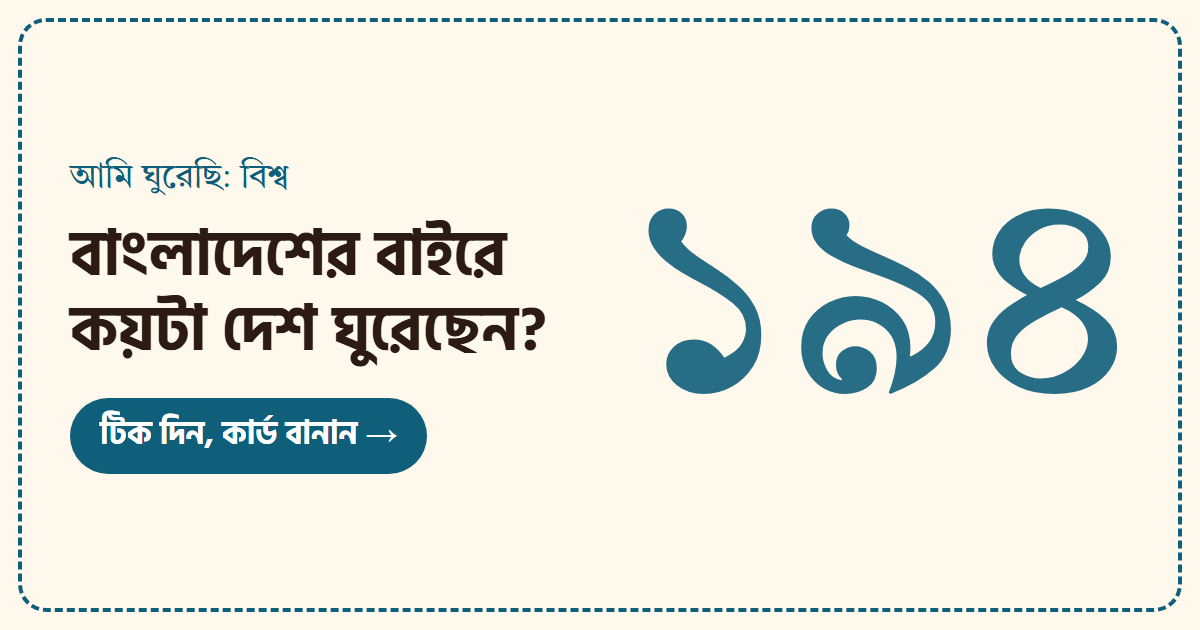
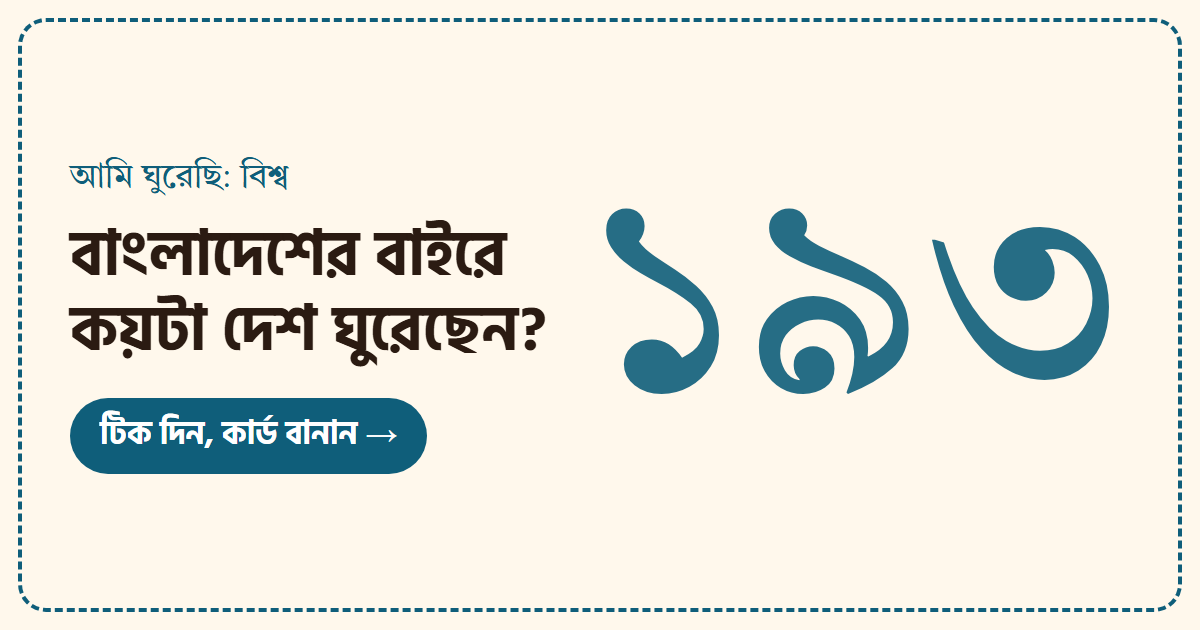
update

Changed region(s): [[0.4933, 0.3317, 0.9558, 0.6333]]

diff --git a/src/collections/world.ts b/src/collections/world.ts
@@ -1,5 +1,11 @@
 import countryData from '../data/countries.json'
-import type { Collection } from './types'
+import type { Collection, Item } from './types'
+
+// Hidden from the list, map and cards. The slot stays in the share-link encoding so links made
+// before the change still decode correctly (see lib/slots.ts).
+const RETIRED = new Set(['IL'])
+
+const slots: Item[] = countryData.countries.map((c) => ({ id: c.id, bn: c.bn, en: c.en, icon: 'globe' as const, group: c.region }))
 
 export const world: Collection = {
   id: 'world',
@@ -7,7 +13,8 @@ export const world: Collection = {
   kind: 'world-map',
   name: 'আমি ঘুরেছি: বিশ্ব',
   short: 'বিশ্ব ভ্রমণ',
-  items: countryData.countries.map((c) => ({ id: c.id, bn: c.bn, en: c.en, icon: 'globe' as const, group: c.region })),
+  items: slots.filter((s) => !RETIRED.has(s.id)),
+  slots,
   groups: countryData.regions,
   levels: ['ট্রানজিট', 'ঘুরেছি', 'থেকেছি'],
   unitLine: 'দেশ ঘুরেছি',
@@ -28,7 +35,7 @@ export const world: Collection = {
   seo: {
     title: 'কয়টা দেশ ঘুরেছেন? নিজের ট্রাভেল ম্যাপ বানান | আমি ঘুরেছি',
     description:
-      'বিশ্বের ১৯৪টি দেশের মধ্যে কয়টা ঘুরেছেন? ট্রানজিট, বেড়ানো বা থাকা — টিক দিয়ে নিজের ওয়ার্ল্ড ট্রাভেল ম্যাপ বানিয়ে ফেসবুকে শেয়ার করুন।',
+      'বিশ্বের ১৯৩টি দেশের মধ্যে কয়টা ঘুরেছেন? ট্রানজিট, বেড়ানো বা থাকা — টিক দিয়ে নিজের ওয়ার্ল্ড ট্রাভেল ম্যাপ বানিয়ে ফেসবুকে শেয়ার করুন।',
     keywords: ['কয়টা দেশ ঘুরেছেন', 'travel map maker', 'countries visited map', 'বিশ্ব ভ্রমণ ম্যাপ'],
   },
 }

diff --git a/src/lib/state.ts b/src/lib/state.ts
@@ -1,8 +1,9 @@
 import { useCallback, useEffect, useMemo, useState, useSyncExternalStore } from 'react'
 import type { Collection } from '../collections/types'
 import { SITE_URL } from './config'
-import { decodeLevels, encodeLevels, type Level } from './encode'
+import type { Level } from './encode'
 import { tally } from './score'
+import { decodeFor, encodeFor } from './slots'
 import { load, save } from './storage'
 import { trackOnce } from './track'
 
@@ -20,11 +21,11 @@ export function shareUrl(c: Collection, encoded: string, name: string): string {
 export function useLevels(c: Collection) {
   const key = `ak:lv:${c.id}`
   const n = c.items.length
-  const [levels, setLevels] = useState<Level[]>(() => decodeLevels(load<string>(key, ''), n))
+  const [levels, setLevels] = useState<Level[]>(() => decodeFor(c, load<string>(key, '')))
 
   useEffect(() => {
-    save(key, encodeLevels(levels))
-  }, [key, levels])
+    save(key, encodeFor(c, levels))
+  }, [c, key, levels])
 
   const setLevel = useCallback((i: number, l: Level) => {
     trackOnce(`first_tick`, { collection: c.id })
@@ -51,7 +52,7 @@ export function useLevels(c: Collection) {
   }), [c.id])
 
   const reset = useCallback(() => setLevels(new Array<Level>(n).fill(0)), [n])
-  const encoded = useMemo(() => encodeLevels(levels), [levels])
+  const encoded = useMemo(() => encodeFor(c, levels), [c, levels])
   const t = useMemo(() => tally(levels), [levels])
 
   return { levels, tally: t, encoded, setLevel, toggle, cycle, reset }
@@ -67,7 +68,7 @@ export function readFriend(c: Collection, search: string): Friend | null {
   const q = new URLSearchParams(search)
   const m = q.get('m')
   if (!m) return null
-  const levels = decodeLevels(m, c.items.length)
+  const levels = decodeFor(c, m)
   if (!levels.some(Boolean)) return null
   return { name: (q.get('n') ?? '').slice(0, 30) || 'বন্ধু', levels }
 }

diff --git a/tests/slots.test.ts b/tests/slots.test.ts
@@ -1,0 +1,32 @@
+import { describe, expect, it } from 'vitest'
+import { world } from '../src/collections'
+import { encodeLevels, type Level } from '../src/lib/encode'
+import { decodeFor, encodeFor } from '../src/lib/slots'
+
+const slotIds = world.slots!.map((s) => s.id)
+const itemIds = world.items.map((s) => s.id)
+
+describe('retired slots (world: Israel)', () => {
+  it('old links made before the retirement keep every other country', () => {
+    // A link from before: India, Israel and Turkey ticked, in the original 194-slot order.
+    const old = new Array<Level>(194).fill(0)
+    old[slotIds.indexOf('IN')] = 2
+    old[slotIds.indexOf('IL')] = 1
+    old[slotIds.indexOf('TR')] = 3
+    const decoded = decodeFor(world, encodeLevels(old))
+    expect(decoded).toHaveLength(193)
+    expect(decoded[itemIds.indexOf('IN')]).toBe(2)
+    expect(decoded[itemIds.indexOf('TR')]).toBe(3)
+    expect(decoded.filter(Boolean)).toHaveLength(2) // Israel dropped, nothing shifted
+  })
+
+  it('round-trips visible levels and keeps the retired slot empty', () => {
+    const lv = itemIds.map((_, i) => (i % 4) as Level)
+    const s = encodeFor(world, lv)
+    expect(s).toHaveLength(66) // still 194 slots → same link format as before
+    expect(decodeFor(world, s)).toEqual(lv)
+    const raw = new Array<Level>(194).fill(0)
+    // the retired slot is always written as 0
+    expect(decodeFor({ ...world, slots: undefined, items: world.slots! }, s)[slotIds.indexOf('IL')]).toBe(raw[0])
+  })
+})

diff --git a/src/lib/slots.ts b/src/lib/slots.ts
@@ -1,0 +1,34 @@
+// Share links and saved selections encode one level per *slot*, in a frozen order.
+// A collection can retire an item (hide it everywhere) while keeping its slot, so existing links
+// still decode correctly. These helpers convert between visible-item levels and slot levels.
+import type { Collection } from '../collections/types'
+import { decodeLevels, encodeLevels, type Level } from './encode'
+
+function slotIndexes(c: Collection): number[] | null {
+  if (!c.slots) return null
+  const pos = new Map(c.slots.map((s, i) => [s.id, i]))
+  return c.items.map((it) => pos.get(it.id)!)
+}
+
+const cache = new WeakMap<Collection, number[] | null>()
+function indexes(c: Collection): number[] | null {
+  if (!cache.has(c)) cache.set(c, slotIndexes(c))
+  return cache.get(c)!
+}
+
+/** Encode visible-item levels into the frozen slot format (retired slots stay 0). */
+export function encodeFor(c: Collection, levels: readonly Level[]): string {
+  const idx = indexes(c)
+  if (!idx) return encodeLevels(levels)
+  const slots = new Array<Level>(c.slots!.length).fill(0)
+  idx.forEach((s, i) => (slots[s] = levels[i] ?? 0))
+  return encodeLevels(slots)
+}
+
+/** Decode a slot-format string into levels for the visible items only. */
+export function decodeFor(c: Collection, s: string | null | undefined): Level[] {
+  const idx = indexes(c)
+  if (!idx) return decodeLevels(s, c.items.length)
+  const slots = decodeLevels(s, c.slots!.length)
+  return idx.map((i) => slots[i])
+}

diff --git a/src/App.tsx b/src/App.tsx
@@ -1,6 +1,7 @@
 import { useEffect } from 'react'
 import { Route, Router, Switch, useLocation, type BaseLocationHook } from 'wouter'
 import { useBrowserLocation } from 'wouter/use-browser-location'
+import { AUTHOR } from './lib/config'
 import { COLLECTIONS } from './collections'
 import { Nav } from './components/Nav'
 import { CollectionPage } from './pages/CollectionPage'
@@ -46,6 +47,12 @@ function Footer() {
     <footer className="mx-auto max-w-5xl px-4 pt-6 pb-28 text-center text-xs leading-relaxed text-[var(--muted)]">
       <p>তৈরি বাংলাদেশের খাবার আর ভ্রমণপ্রেমীদের জন্য। আপনার টিক ও ছবি শুধু আপনার ফোনেই থাকে।</p>
       <p className="mt-1">মানচিত্র: geoBoundaries (BBS / OCHA ROAP, CC BY 3.0 IGO), Natural Earth।</p>
+      <p className="mt-1">
+        তৈরি করেছেন {AUTHOR.name} ·{' '}
+        <a href={`mailto:${AUTHOR.email}`} className="underline">
+          {AUTHOR.email}
+        </a>
+      </p>
     </footer>
   )
 }

diff --git a/src/components/WorldMap.tsx b/src/components/WorldMap.tsx
@@ -49,9 +49,15 @@ export const WorldMap = memo(function WorldMap({ data, items, theme, levels, com
     return mine && theirs ? COMPARE_COLORS.both : mine ? COMPARE_COLORS.me : theirs ? COMPARE_COLORS.them : COMPARE_COLORS.none
   }
   const shapes = items.map((it, i) => ({ it, i, g: data.countries[it.id] }))
+  const listed = new Set(items.map((it) => it.id))
+  // Countries in the map data but not in the list (retired items) are drawn as plain, non-selectable land.
+  const unlisted = Object.entries(data.countries).filter(([id, g]) => g.d && !listed.has(id))
   return (
     <svg viewBox={`0 0 ${data.w} ${data.h}`} className={className} role="img" aria-label="বিশ্ব মানচিত্র">
       <path d={data.other} fill={theme.empty} stroke="#FFFDF7" strokeWidth={0.5 * strokeScale} />
+      {unlisted.map(([id, g]) => (
+        <path key={id} d={g.d} fill={theme.empty} stroke="#FFFDF7" strokeWidth={0.5 * strokeScale} />
+      ))}
       {shapes.map(({ it, i, g }) =>
         g?.d ? (
           <path

diff --git a/scripts/prerender.ts b/scripts/prerender.ts
@@ -11,7 +11,7 @@ if (!process.env.VITE_SITE_URL) {
   throw new Error('Set VITE_SITE_URL (e.g. https://yourdomain.com) in .env — canonical URLs, OG tags and the sitemap depend on it.')
 }
 
-const { SITE_URL } = await import('../src/lib/config.ts')
+const { SITE_URL, AUTHOR } = await import('../src/lib/config.ts')
 const { COLLECTIONS } = await import('../src/collections/index.ts')
 const { FOODS_BY_DISTRICT } = await import('../src/collections/food64.ts')
 const { DISTRICTS, DIVISIONS, DISTRICT_BY_ID, DIVISION_BY_ID } = await import('../src/data/districts.ts')
@@ -121,6 +121,7 @@ for (const c of COLLECTIONS) {
         name: c.name,
         url: abs(p),
         applicationCategory: 'EntertainmentApplication',
+        author: { '@type': 'Person', name: AUTHOR.name, email: AUTHOR.email },
         operatingSystem: 'Any',
         inLanguage: 'bn',
         offers: { '@type': 'Offer', price: '0', priceCurrency: 'BDT' },

diff --git a/scripts/make-og.ts b/scripts/make-og.ts
@@ -36,7 +36,7 @@ function page(c: (typeof COLLECTIONS)[number]) {
   const art =
     c.kind === 'bd-map'
       ? mapSvg(t)
-      : `<div style="font-family:'Tiro Bangla';font-size:300px;line-height:1;color:${t.accent};opacity:.9">${c.id === 'world' ? '১৯৪' : c.id === 'pitha' ? 'পিঠা' : 'ফল'}</div>`
+      : `<div style="font-family:'Tiro Bangla';font-size:300px;line-height:1;color:${t.accent};opacity:.9">${c.id === 'world' ? '১৯৩' : c.id === 'pitha' ? 'পিঠা' : 'ফল'}</div>`
   return `<!doctype html><html lang="bn"><head><meta charset="utf-8"><style>${css}</style></head><body>
   <div style="position:absolute;inset:18px;border:4px dashed ${t.accent};border-radius:28px"></div>
   <div style="display:flex;height:100%;align-items:center;padding:0 70px;gap:30px">

diff --git a/tests/data.test.ts b/tests/data.test.ts
@@ -48,9 +48,12 @@ describe('data integrity', () => {
     }
   })
 
-  it('world list is 194 countries with map positions', () => {
+  it('world list shows 193 countries (Israel retired) over 194 frozen slots', () => {
     const world = COLLECTIONS.find((c) => c.id === 'world')!
-    expect(world.items).toHaveLength(194)
+    expect(world.items).toHaveLength(193)
+    expect(world.slots).toHaveLength(194)
+    expect(world.items.some((it) => it.id === 'IL')).toBe(false)
+    expect(world.items.some((it) => it.id === 'PS')).toBe(true)
     for (const it of world.items) expect((worldMap.countries as Record<string, unknown>)[it.id], it.id).toBeTruthy()
   })
 

diff --git a/scripts/build-world.ts b/scripts/build-world.ts
@@ -1,6 +1,7 @@
 // Builds src/data/worldMap.json + src/data/countries.json for the "আমি ঘুরেছি: বিশ্ব" collection.
 // Geometry: Natural Earth 1:50m via world-atlas (public domain). Names: CLDR via Intl.DisplayNames.
-// List: 193 UN members + Palestine + Vatican, minus Bangladesh (home) = 194.
+// List: 193 UN members + Palestine + Vatican, minus Bangladesh (home) = 194 encoding slots.
+// The collection can still hide ("retire") entries without breaking share links — see src/collections/world.ts.
 // Run: npm run build:world
 import fs from 'node:fs'
 import path from 'node:path'

diff --git a/src/collections/types.ts b/src/collections/types.ts
@@ -45,6 +45,11 @@ export interface Collection {
   /** Short nav label */
   short: string
   items: Item[]
+  /**
+   * Frozen encoding order, only when it differs from `items` (an item was retired). Retired items keep
+   * their slot so old share links still decode; they are hidden everywhere else. See lib/slots.ts.
+   */
+  slots?: Item[]
   groups: Group[]
   /** Labels for level 1, 2, 3 */
   levels: [string, string, string]

diff --git a/index.html b/index.html
@@ -4,6 +4,7 @@
     <meta charset="UTF-8" />
     <meta name="viewport" content="width=device-width, initial-scale=1, viewport-fit=cover" />
     <meta name="theme-color" content="#FFF8EC" />
+    <meta name="author" content="MD TANVIR HOSSAIN" />
     <link rel="icon" href="/favicon.svg" type="image/svg+xml" />
     <link rel="manifest" href="/manifest.webmanifest" />
     <!-- Google tag (gtag.js) -->
